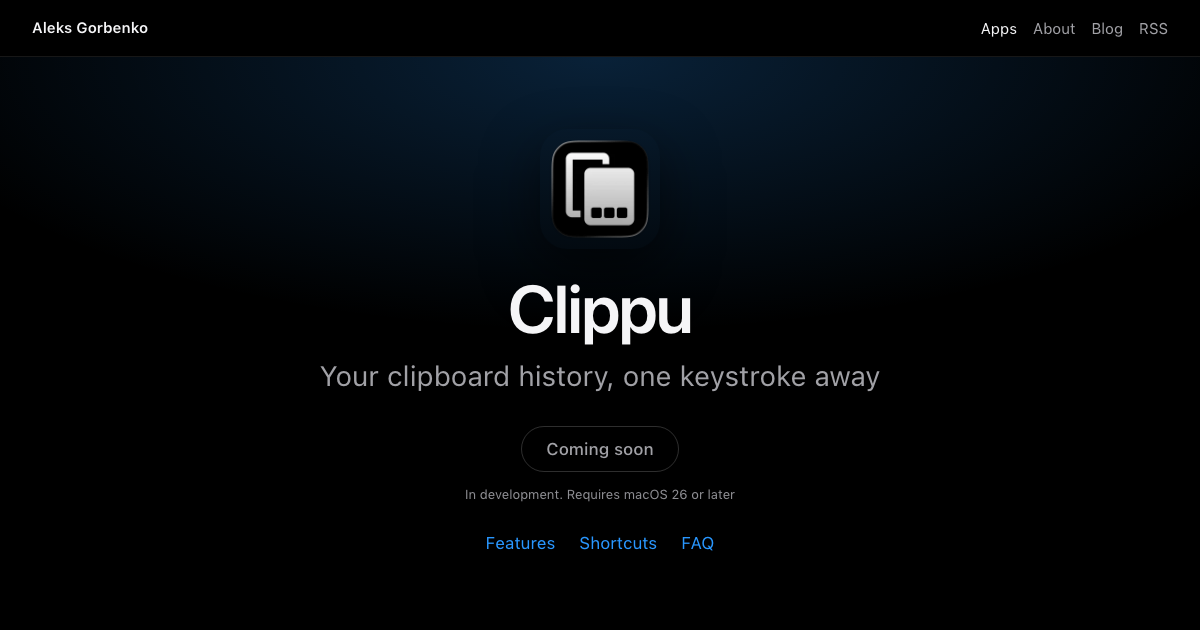
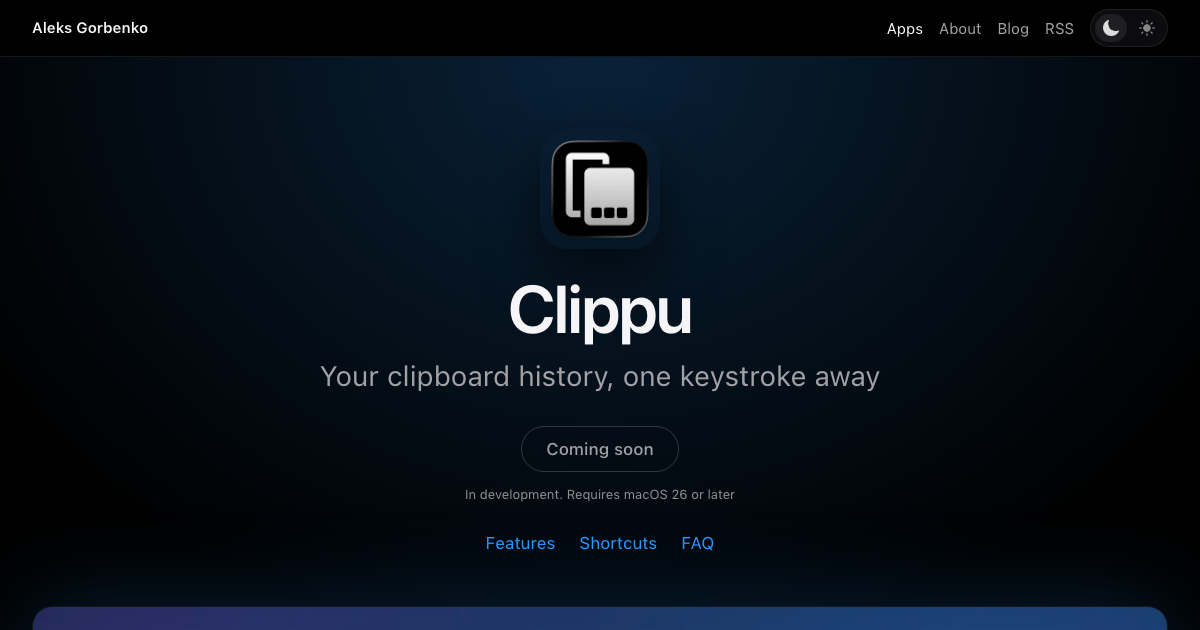
feat(clippu): hero and feature images from Sketch
sync-assets takes APP= so any app copies its images from its marketing/output/website.

Changed region(s): [[0.0, 0.9048, 0.9867, 1.0], [0.2775, 0.4222, 0.74, 0.6635], [0.74, 0.0, 0.9867, 0.0905]]

diff --git a/content/apps/clippu/_index.md b/content/apps/clippu/_index.md
@@ -8,6 +8,8 @@ tagline = "Your clipboard history, one keystroke away"
 description = "Clippu keeps the text, links, images and files you copy, and pastes any of them back from the keyboard. Offline, with no account."
 keywords = ["macOS", "clipboard", "clipboard manager", "clipboard history", "paste", "productivity", "swift"]
 icon = "images/icon_1024x1024.png"
+hero = "images/website-hero_2400x1350.webp"
+heroAlt = "The Clippu clipboard bar along the bottom of the screen, with text, colour, code, image and file cards"
 requirement = "In development. Requires macOS 26 or later"
 links = [
   { name = "Coming soon" },
@@ -44,11 +46,15 @@ body = """
 - **Links** show the title the app copied with them. Clippu never loads the page.
 """
 
+image = "images/website-kinds_1440x1080.webp"
+alt = "A colour swatch, highlighted code and an image, each on its own card"
 [[features]]
 title = "Search Everything"
 summary = "Start typing to search every item, including the text inside images."
 body = "Text in images is recognised on your Mac, so a screenshot of an error message turns up when you search for it."
 
+image = "images/website-search_1440x1080.webp"
+alt = "A search for report finding a PDF, an email snippet and a folder"
 [[features]]
 title = "Search Scopes"
 summary = "Narrow the search to one kind, one file type or one app."
@@ -62,6 +68,8 @@ Type a scope word, then your search:
 The scope shows as a capsule in the search field.
 """
 
+image = "images/website-scopes_1440x1080.webp"
+alt = "The Safari scope shown as a capsule in the search field, with Safari items only"
 [[features]]
 title = "Paste in Order"
 summary = "Pick several cards and paste them in the order you picked them."
@@ -72,6 +80,8 @@ body = """
 - [[⇧ ↩]] paste as plain text
 """
 
+image = "images/website-paste-in-order_1440x1080.webp"
+alt = "Three selected cards with the paste as plain text hint under each"
 [[features]]
 title = "Undo Any Change"
 summary = "Delete, edit, rename, move or clear, then press [[⌘ Z]] to take it back."
@@ -86,6 +96,8 @@ body = """
 - **You set the limits.** History ages out by the age and storage size you choose.
 """
 
+image = "images/website-privacy_1440x1080.webp"
+alt = "The Privacy tab in Settings listing ignored applications"
 [[features]]
 title = "Shortcuts Integration"
 summary = "Paste an item, delete an item or clear your history from your own shortcuts."

diff --git a/README.md b/README.md
@@ -28,7 +28,7 @@ To learn more about me:
 ```sh
 make setup          # tools, dependencies, browsers
 make serve          # live preview
-make sync-assets    # copy Bukku images from the brand assets kit
+make sync-assets APP=<slug>    # copy an app's website images from its marketing/output/website (default bukku)
 make check          # every lint, test and audit
 make screenshots    # approve new screenshot baselines
 make links-external # report broken external links
